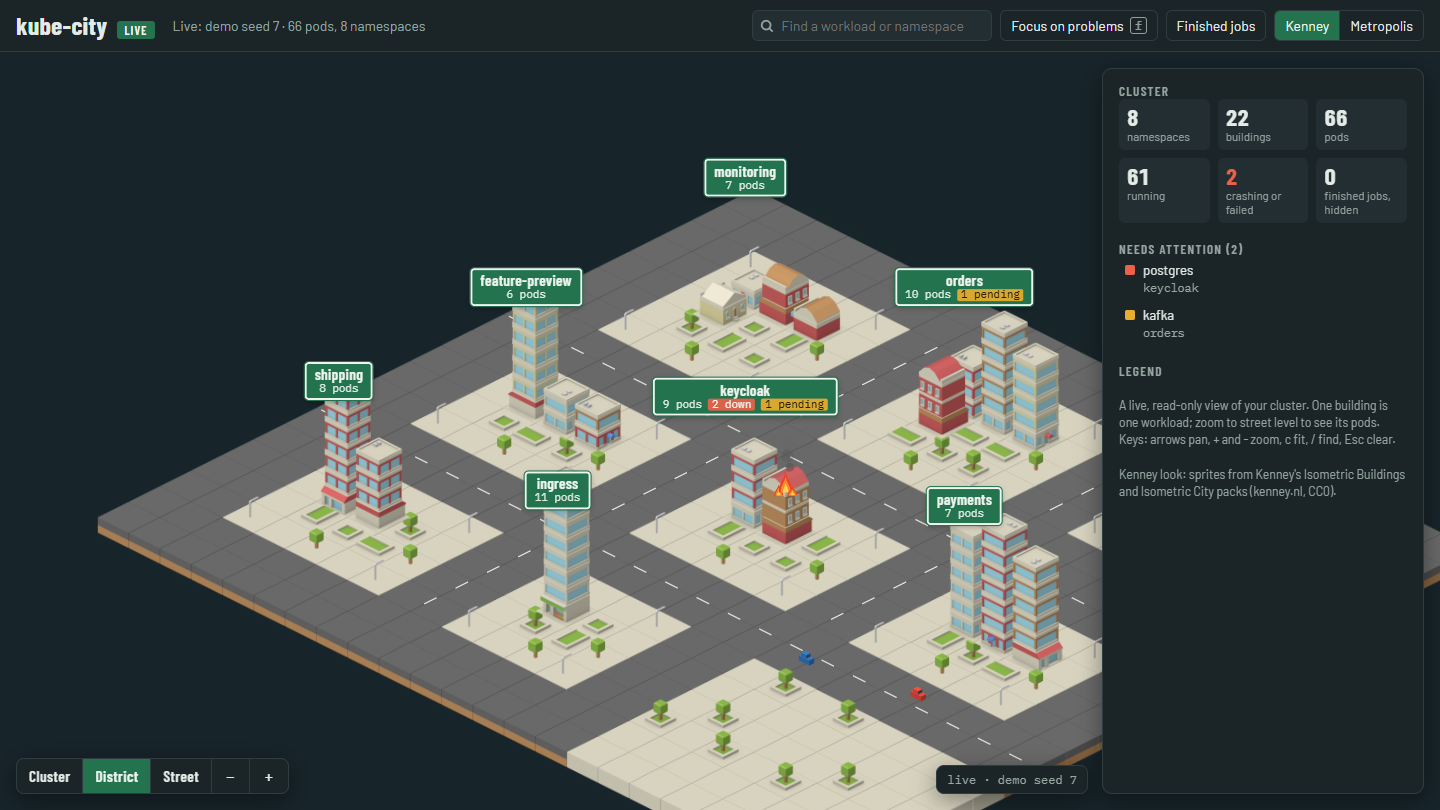
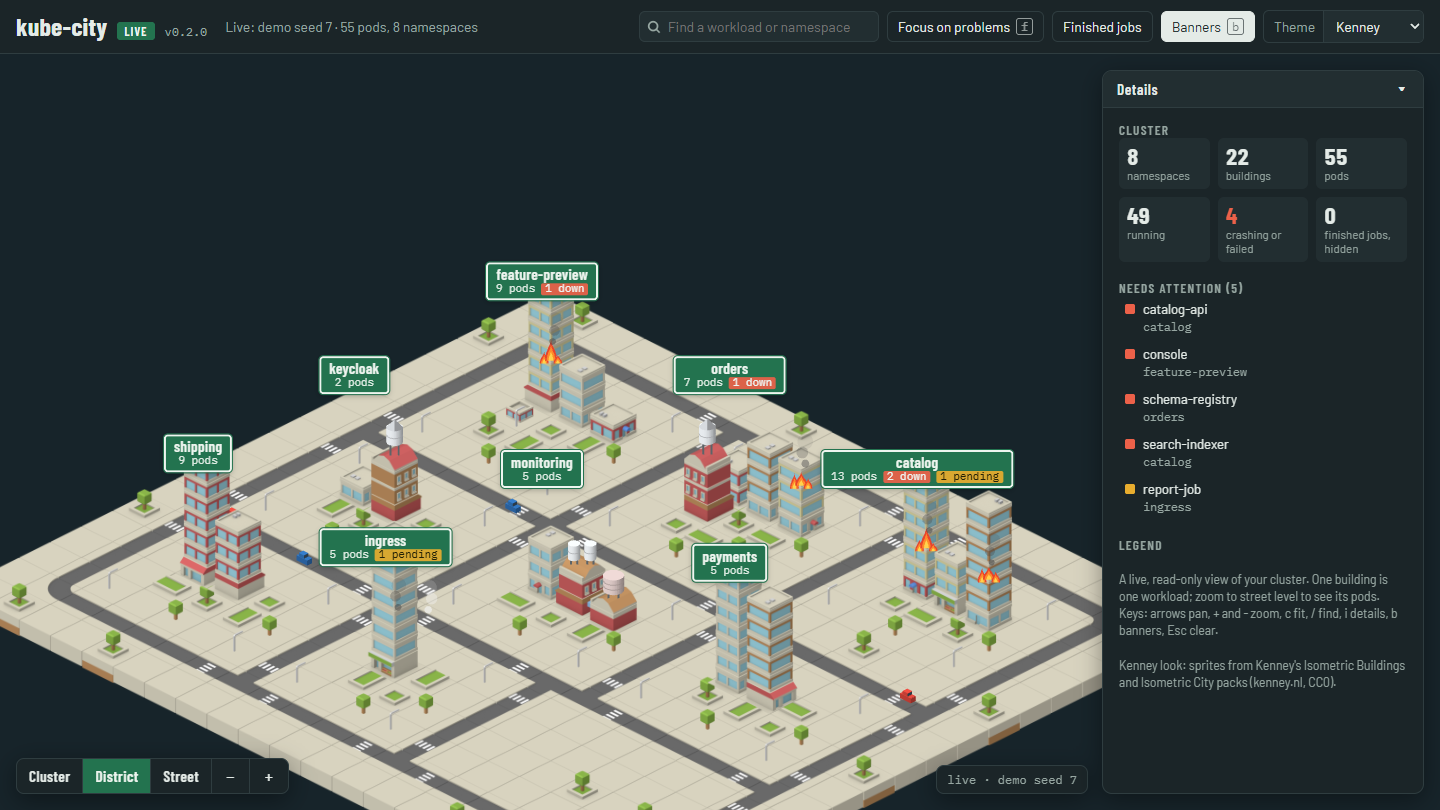
feat: Kenney road tiles with junctions and zebra crossings
The Kenney look draws one-tile roads from the Isometric City pack, each tile
picked from its neighbours, with a zebra crossing next to every junction.
Road width is now a property of the look (Metropolis keeps two tiles), so a
look switch re-plans the districts and keeps a moved camera on its district.

Closes #15

diff --git a/art/city.template.html b/art/city.template.html
@@ -285,7 +285,7 @@ const reducedMotion = matchMedia("(prefers-reduced-motion: reduce)").matches;
 
 // ---------------------------------------------------------------- helpers
 
-const TW = 64, TH = 32, GAP = 2;
+const TW = 64, TH = 32;
 const iso = (i, j) => [(i - j) * TW / 2, (i + j) * TH / 2];
 const clamp = (v, a, b) => Math.max(a, Math.min(b, v));
 const lerp = (a, b, t) => a + (b - a) * t;
@@ -587,7 +587,9 @@ function planDistricts() {
     const branch = /^(feature|bugfix)-/.test(name);
     return { idx, name, branch, cols, rows, w: cols + 2, h: rows + 2, lots, x: 0, y: 0, stats: null, health: "ok" };
   });
-  // Shelf packing, tallest first: rows of districts with roads between them.
+  // Shelf packing, tallest first: rows of districts with roads between them,
+  // as wide as the look's roads.
+  const GAP = theme.gap;
   const order = [...districts].sort((a, b) => (b.h - a.h) || (b.w - a.w) || a.name.localeCompare(b.name));
   const area = districts.reduce((s, d) => s + (d.w + GAP) * (d.h + GAP), 0);
   const maxW = Math.max(Math.ceil(Math.sqrt(area) * 1.15), ...districts.map(d => d.w));
@@ -732,6 +734,7 @@ function drawGround() {
 
 const METROPOLIS = {
   name: "metropolis",
+  gap: 2, lane: 0.32,
   draw: {
     tower: tower, tank: tankShape, house: houses, kiosk, scorched,
     factory: (g, p) => factory(g, p, false), done: (g, p) => factory(g, p, true), build: construction,
@@ -773,6 +776,9 @@ const KIT = {
     house: ["b057", "b058", "b059", "b060", "b061", "b062", "b063", "b064", "b066", "b067", "b068", "b069", "b073", "b074", "b075", "b082"],
     works: ["b081", "b088", "b089", "b096"],
   },
+  // Road tiles by the neighbours they join: north (j - 1) 1, east (i + 1) 2, south 4, west 8.
+  roads: { 5: "c081", 10: "c073", 15: "c089", 13: "c088", 7: "c095", 14: "c096", 11: "c103", 3: "c124", 6: "c122", 12: "c125", 9: "c126" },
+  crossings: { 5: "c056", 10: "c064" },
   road: "c080", sidewalk: "c074", lot: "c066", parks: ["c059", "c069", "c067", "c076"], plaza: ["c072", "c072", "c072", "c072", "c072", "c067"],
   pit: "c040", tree: "d010", lamp: "d005",
 };
@@ -861,6 +867,7 @@ function roofTank(g, v) {
 
 const KENNEY = {
   name: "kenney",
+  gap: 1, lane: 0.12,
   body(look) {
     const c = new PIXI.Container(), p = look.p;
     switch (look.cat) {
@@ -897,7 +904,22 @@ const KENNEY = {
   },
   ground() {
     const { W, H } = plan, m = 2;
-    const across = new Set(plan.roads.across.flatMap(j => [j - 1, j]));
+    // One-tile roads with their own kerbs: around the city, between the
+    // shelves and along both sides of every block. A block that ends one tile
+    // short of the city's edge gets no road of its own there: two roads side
+    // by side would make a strip of junctions.
+    const road = new Set(), key = (i, j) => `${i}/${j}`;
+    for (const j of [-1, ...plan.roads.across.map(j => j - 0.5), H]) for (let i = -1; i <= W; i++) road.add(key(i, j));
+    for (let j = -1; j <= H; j++) { road.add(key(-1, j)); road.add(key(W, j)); }
+    const shelfH = new Map();
+    for (const d of plan.districts) shelfH.set(d.y, Math.max(shelfH.get(d.y) || 0, d.h));
+    for (const d of plan.districts) for (let j = d.y; j < d.y + shelfH.get(d.y); j++) {
+      road.add(key(d.x - 1, j));
+      if (d.x + d.w !== W - 1) road.add(key(d.x + d.w, j));
+    }
+    const isRoad = (i, j) => road.has(key(i, j));
+    const joins = (i, j) => (isRoad(i, j - 1) ? 1 : 0) | (isRoad(i + 1, j) ? 2 : 0) | (isRoad(i, j + 1) ? 4 : 0) | (isRoad(i - 1, j) ? 8 : 0);
+    const junction = (i, j) => isRoad(i, j) && [1, 2, 4, 8].filter(b => joins(i, j) & b).length > 2;
     const tiles = [];
     for (let j = -m; j < H + m; j++) for (let i = -m; i < W + m; i++) {
       const d = plan.districts.find(d => i >= d.x && i < d.x + d.w && j >= d.y && j < d.y + d.h);
@@ -906,9 +928,13 @@ const KENNEY = {
         const ring = i === d.x || j === d.y || i === d.x + d.w - 1 || j === d.y + d.h - 1;
         const k = (j - d.y - 1) * d.cols + (i - d.x - 1);
         name = ring ? KIT.sidewalk : k < d.lots.size ? KIT.lot : pick(KIT.parks, hash(`${i}/${j}`), 0);
+      } else if (isRoad(i, j)) {
+        // A zebra crossing on the straight next to every junction.
+        const n = joins(i, j);
+        const crossing = (n === 5 && (junction(i, j - 1) || junction(i, j + 1))) || (n === 10 && (junction(i - 1, j) || junction(i + 1, j)));
+        name = (crossing ? KIT.crossings[n] : KIT.roads[n]) || KIT.road;
       } else {
-        const near = across.has(j) || plan.districts.some(d => i >= d.x - GAP && i < d.x + d.w + GAP && j >= d.y - GAP && j < d.y + d.h + GAP);
-        name = near ? KIT.road : pick(KIT.plaza, hash(`${i}/${j}`), 0);
+        name = pick(KIT.plaza, hash(`${i}/${j}`), 0);
       }
       tiles.push([i, j, name]);
     }
@@ -916,7 +942,6 @@ const KENNEY = {
     for (const [i, j, name] of tiles) {
       const t = tileSprite(name); t.position.set(...iso(i + 0.5, j + 0.5)); groundLayer.addChild(t);
     }
-    const g = new PIXI.Graphics(); laneMarkings(g); groundLayer.addChild(g);
     // Lamps on the corners of every block, trees along its front kerbs.
     for (const d of plan.districts) {
       for (const [i, j] of [[d.x, d.y], [d.x + d.w - 1, d.y], [d.x, d.y + d.h - 1], [d.x + d.w - 1, d.y + d.h - 1]])
@@ -966,8 +991,22 @@ function replan() {
 async function setLook(name) {
   if (!KENNEY_SPRITES || !THEMES[name]) name = "metropolis";
   if (name === "kenney") await kenneyReady();
+  const gap = theme.gap;
   theme = THEMES[name];
-  rebuildGround();
+  if (theme.gap === gap) rebuildGround();
+  else {
+    // The looks' roads differ in width, so the districts move: a camera the
+    // viewer has moved stays over the same district.
+    const i = cam.x / TW + cam.y / TH, j = cam.y / TH - cam.x / TW;
+    const dist = d => Math.hypot(d.x + d.w / 2 - i, d.y + d.h / 2 - j);
+    const was = plan.districts.reduce((a, d) => (!a || dist(d) < dist(a) ? d : a), null);
+    replan();
+    const now = was && plan.districts[was.idx];
+    if (now && cam.moved) {
+      const [dx, dy] = iso(now.x - was.x, now.y - was.y);
+      cam.fly = null; cam.x += dx; cam.y += dy; cam.dirty = true;
+    }
+  }
   for (const b of world.buildings.values()) if (b.view && b.look) setBody(b, b.look);
   document.getElementById("look").value = name;
   try { localStorage.setItem("kube-city-look", name); } catch { /* per-viewer convenience only */ }
@@ -1770,7 +1809,7 @@ function makeCars() {
     for (let k = 0; k < Math.max(2, Math.round(W / 9)); k++) {
       const dir = k % 2 ? 1 : -1;
       const g = new PIXI.Graphics(geometry(`car:${k % colors.length}`, gg => (car(gg, colors[k % colors.length]), 10)).geometry);
-      cars.push({ g, j: j + (dir > 0 ? 0.32 : -0.32), i: Math.random() * (W + 4) - 2, dir, speed: 0.9 + Math.random() * 0.8 });
+      cars.push({ g, j: j + (dir > 0 ? theme.lane : -theme.lane), i: Math.random() * (W + 2 * theme.gap) - theme.gap, dir, speed: 0.9 + Math.random() * 0.8 });
       cityLayer.addChild(g);
     }
   }
@@ -1778,10 +1817,10 @@ function makeCars() {
 let lastCars = 0;
 function moveCars(now) {
   const dt = lastCars ? Math.min(0.1, (now - lastCars) / 1000) : 0; lastCars = now;
-  const { W } = plan;
+  const { W } = plan, end = theme.gap;  // where the road ends
   for (const c of cars) {
     c.i += c.dir * c.speed * dt;
-    if (c.i > W + 2) c.i = -2; if (c.i < -2) c.i = W + 2;
+    if (c.i > W + end) c.i = -end; if (c.i < -end) c.i = W + end;
     const [x, y] = iso(c.i, c.j);
     c.g.position.set(x, y);
     c.g.zIndex = (c.i + c.j) * 10;
@@ -1917,7 +1956,9 @@ if (live) {
     "A live, read-only view of your cluster. One building is one workload; zoom to street level to see its pods. Keys: arrows pan, + and - zoom, c fit, / find, i details, b banners, Esc clear.";
 }
 registerBatch(DATA.events);
-replan();
-setLook(initialLook).catch(() => setLook("metropolis")).then(() => (live ? connectLive() : startReplay()));
+// The first plan waits for the look, whose roads set the space between districts.
+const firstLook = initialLook === "kenney" ? kenneyReady().then(() => "kenney", () => "metropolis") : Promise.resolve("metropolis");
+firstLook.then(name => { theme = THEMES[name]; replan(); return setLook(name); })
+  .then(() => (live ? connectLive() : startReplay()));
 districtStats();
 </script>

diff --git a/docs/decisions.md b/docs/decisions.md
@@ -3,7 +3,7 @@
 What was decided while building kube-city, and why. Read this before
 changing direction; update it when a decision changes.
 
-Last updated: 2026-10-16.
+Last updated: 2026-10-23.
 
 ## The idea
 
@@ -91,7 +91,7 @@ direction before building a `--web` server.
     with a storey per replica, StatefulSets brick halls with a code-drawn
     tank, twin tanks or water tower on the roof, DaemonSets houses, Jobs
     works with a code-drawn chimney. Fire, smoke and
-    the crane stay code-drawn on top. The ground is Kenney tiles: asphalt,
+    the crane stay code-drawn on top. The ground is Kenney tiles: roads,
     pavement, planters, lamps and trees. Sprites go into one atlas at load
     time (with mipmaps); ground floors lose their earth sides there so the
     lot tile underneath shows them.
@@ -101,6 +101,15 @@ direction before building a `--web` server.
     to confuse from far away and the packs have no tanks. The owner chose
     (2026-10-23, #14) code-drawn tanks on StatefulSet roofs, keeping the
     "storage" idea from Metropolis; pale tanks read at district zoom.
+  - Roads (#15, 2026-10-23): the Kenney look uses the pack's one-tile roads
+    with their own kerbs instead of two tiles of asphalt with drawn dashes.
+    Each road tile is picked from its neighbours (straights, T-junctions,
+    crossroads, rounded corners), with a zebra crossing on the straight next
+    to every junction. Roads run around the city, between the shelves and
+    along both sides of every block. The pack has no lane dashes, so there
+    are none. Each look sets its road width (`gap`: Metropolis 2, Kenney 1),
+    so switching looks re-plans the districts; a camera the viewer moved
+    stays over the same district.
 - The sprites the page uses are in `assets/kenney/` (CC0, with Kenney's
   licence files); `assets/kenney/README.md` says where the full packs are.
 - `apply(event)` takes events in the recording's compact form, so a future
